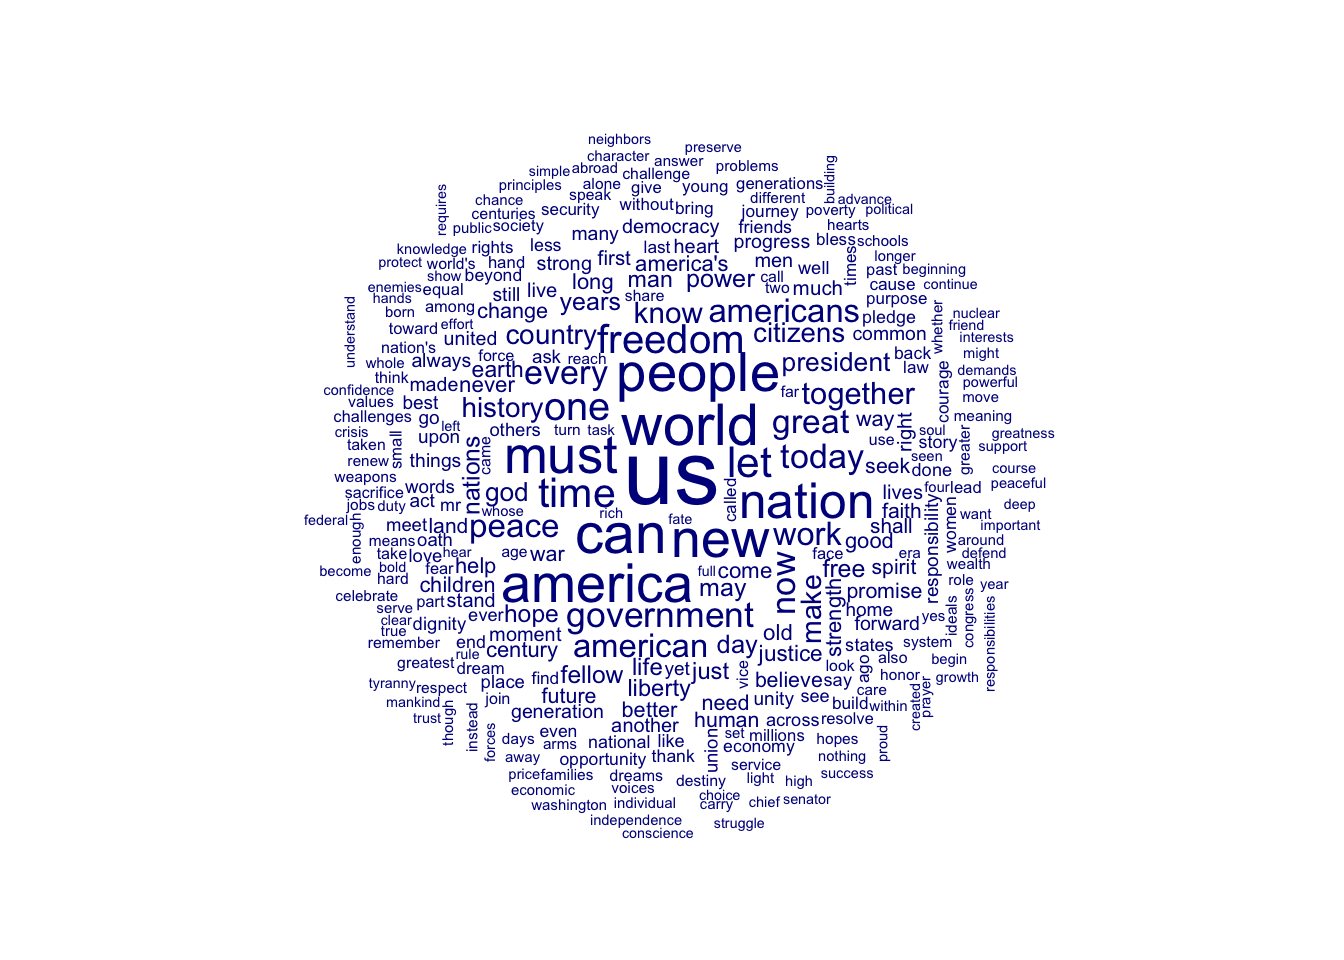
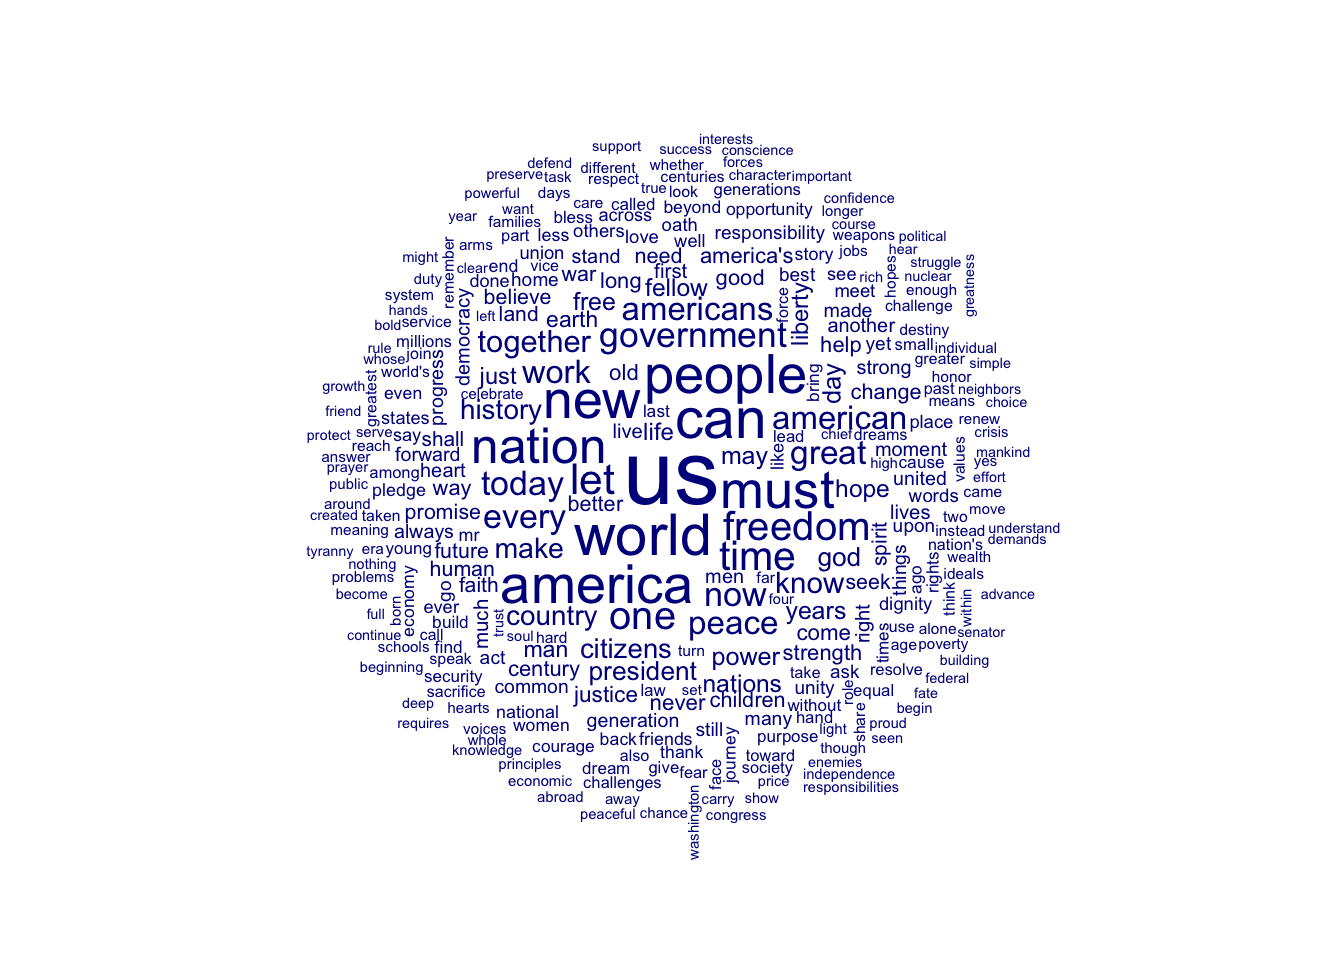
Updating tutorial 1

Changed region(s): [[0.2188, 0.125, 0.7812, 0.875]]

diff --git a/docs/Tutorial1.html b/docs/Tutorial1.html
@@ -167,13 +167,13 @@ pre > code.sourceCode > span > a:first-child::before { text-decoration: underlin
 
 </header>
 
-<p>In this tutorial, you’ll learn about working in R, how to get your R workspace set up, how to do some basic work with data in R, and we’ll introduce a quick version of some (pretty though not necessarily useful) text analysis.</p>
+<p>In this tutorial, you’ll learn (or refresh your memory) about working in R, how to get your R workspace set up, how to do some basic work with data in R, and we’ll introduce a quick version of some (pretty though not necessarily useful) text analysis.</p>
 <p>By the end of this tutorial, you should be familiar with the following:</p>
 <p>1. Load packages: install.packages(), library()</p>
 <p>2. Working directories: getwd(), setwd()</p>
 <p>3. Read in some data: read.csv()</p>
 <p>4. Look at data: str(), head(), tail()</p>
-<p>5. Piping: %&gt;%</p>
+<p>5. Piping: %&gt;% or |&gt;</p>
 <p>6. Manipulate data: group_by, summarise()</p>
 <section id="background" class="level1">
 <h1>Background</h1>
@@ -370,7 +370,7 @@ ICU version: 71.1</code></pre>
 1      7.10</code></pre>
 </div>
 </div>
-<p>For folks that have worked with R and the <code>tidyverse</code> before, that should look familiar. But for others, here’s the idea of what we did there. First, we take the dataset (<code>data</code>) and pass it to a function via the pipe operator (<code>%&gt;%</code>). Then, we call a group of potential summary functions through <code>summarise()</code>, create a new variable called <code>meanVotes</code>, and set it’s value equal to the <code>mean()</code> of <code>majVotes</code> via <code>mean(majVotes)</code>. We can see from R that the mean is approximately 7.1 during the entire time period under study here. We are probably more interested, though, in how divisiveness changes. For instance, has the divisiveness of the Court increased or decreased over time? We can do that by just adding another line to what we had above, as so:</p>
+<p>For folks that have worked with R and the <code>tidyverse</code> before, that should look familiar. But for others, here’s the idea of what we did there. First, we take the dataset (<code>data</code>) and pass it to a function via the pipe operator (<code>%&gt;%</code> or <code>|&gt;</code>). Then, we call a group of potential summary functions through <code>summarise()</code>, create a new variable called <code>meanVotes</code>, and set it’s value equal to the <code>mean()</code> of <code>majVotes</code> via <code>mean(majVotes)</code>. We can see from R that the mean is approximately 7.1 during the entire time period under study here. We are probably more interested, though, in how divisiveness changes. For instance, has the divisiveness of the Court increased or decreased over time? We can do that by just adding another line to what we had above, as so:</p>
 <div class="cell">
 <div class="sourceCode cell-code" id="cb21"><pre class="sourceCode r code-with-copy"><code class="sourceCode r"><span id="cb21-1"><a href="#cb21-1" aria-hidden="true" tabindex="-1"></a>data <span class="sc">%&gt;%</span> </span>
 <span id="cb21-2"><a href="#cb21-2" aria-hidden="true" tabindex="-1"></a>  <span class="fu">group_by</span>(term) <span class="sc">%&gt;%</span> </span>
@@ -422,11 +422,11 @@ ICU version: 71.1</code></pre>
 <div class="cell">
 <div class="sourceCode cell-code" id="cb25"><pre class="sourceCode r code-with-copy"><code class="sourceCode r"><span id="cb25-1"><a href="#cb25-1" aria-hidden="true" tabindex="-1"></a><span class="co"># quanteda comes with a corpus of presidential inaugural speeches</span></span>
 <span id="cb25-2"><a href="#cb25-2" aria-hidden="true" tabindex="-1"></a><span class="co"># this first line subsets that corpus to speeches later than 1953</span></span>
-<span id="cb25-3"><a href="#cb25-3" aria-hidden="true" tabindex="-1"></a>dfm_inaug <span class="ot">&lt;-</span> <span class="fu">corpus_subset</span>(data_corpus_inaugural, Year <span class="sc">&gt;=</span> <span class="dv">1954</span>) <span class="sc">%&gt;%</span></span>
+<span id="cb25-3"><a href="#cb25-3" aria-hidden="true" tabindex="-1"></a>dfm_inaug <span class="ot">&lt;-</span> <span class="fu">corpus_subset</span>(data_corpus_inaugural, Year <span class="sc">&gt;=</span> <span class="dv">1954</span>) <span class="sc">|&gt;</span></span>
 <span id="cb25-4"><a href="#cb25-4" aria-hidden="true" tabindex="-1"></a>    <span class="co"># notice we are using the piping operator again.</span></span>
 <span id="cb25-5"><a href="#cb25-5" aria-hidden="true" tabindex="-1"></a>    <span class="co"># this time, we pipe the corpus to DFM, which creates a document-feature matrix</span></span>
 <span id="cb25-6"><a href="#cb25-6" aria-hidden="true" tabindex="-1"></a>    <span class="co"># in creating it, we remove stop words ("a", "it", "they") and punctuation</span></span>
-<span id="cb25-7"><a href="#cb25-7" aria-hidden="true" tabindex="-1"></a>    <span class="fu">dfm</span>(<span class="at">remove =</span> <span class="fu">stopwords</span>(<span class="st">'english'</span>), <span class="at">remove_punct =</span> <span class="cn">TRUE</span>) <span class="sc">%&gt;%</span></span>
+<span id="cb25-7"><a href="#cb25-7" aria-hidden="true" tabindex="-1"></a>    <span class="fu">dfm</span>(<span class="at">remove =</span> <span class="fu">stopwords</span>(<span class="st">'english'</span>), <span class="at">remove_punct =</span> <span class="cn">TRUE</span>) <span class="sc">|&gt;</span></span>
 <span id="cb25-8"><a href="#cb25-8" aria-hidden="true" tabindex="-1"></a>    <span class="co"># then we trim words that appear fewer than 10 times</span></span>
 <span id="cb25-9"><a href="#cb25-9" aria-hidden="true" tabindex="-1"></a>    <span class="fu">dfm_trim</span>(<span class="at">min_termfreq =</span> <span class="dv">10</span>, <span class="at">verbose =</span> <span class="cn">FALSE</span>)</span></code><button title="Copy to Clipboard" class="code-copy-button"><i class="bi"></i></button></pre></div>
 <div class="cell-output cell-output-stderr">
@@ -443,6 +443,7 @@ ICU version: 71.1</code></pre>
 <p><img src="Tutorial1_files/figure-html/unnamed-chunk-10-1.png" class="img-fluid" width="672"></p>
 </div>
 </div>
+<p>Now you have a nice word cloud! Don’t worry if you are unfamiliar with terms like <code>corpus</code>, <code>document-feature matrix</code>, and <code>stop words</code>. We will be covering and learning about these concepts throughout the semester. Here’s more exciting text analysis!</p>
 
 
 </section>
